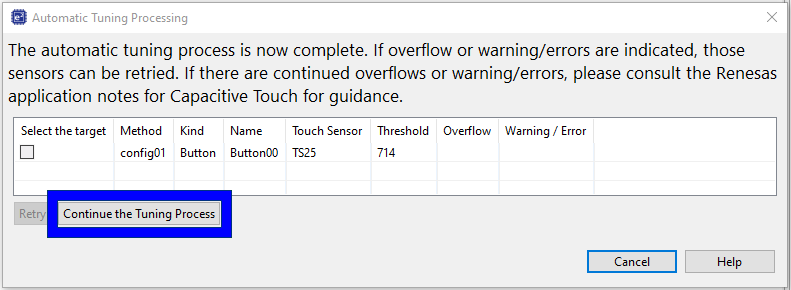
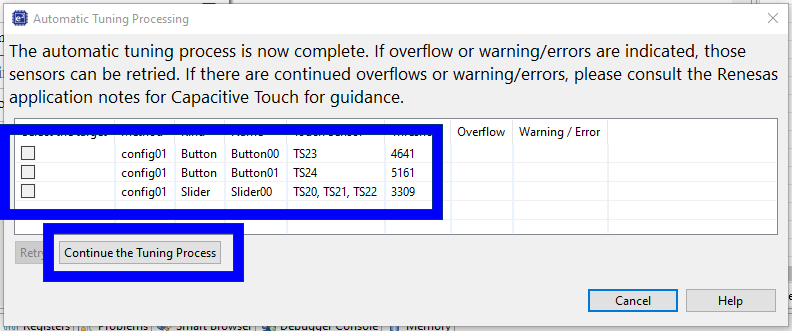
First draft of lab

Changed region(s): [[0.0, 0.0, 1.0, 0.869], [0.0, 0.8069, 1.0, 1.0]]

diff --git a/docs/4-QE-Tuning.html b/docs/4-QE-Tuning.html
@@ -60,96 +60,130 @@
 			<ol>
 				<li>Select (click once) the <b>Button</b> object and place (click once) somewhere in the configuration
 					area</li>
+				<li>place (click once) somewhere else in the configuration area to make a second button</li>
 				<li>Press <b>[Esc]</b> to stop placing buttons</li>
-				<li>Double click the button to configure it</li>
-				<li>Use the drop down to set the TS electrode pin to TS25</li>
-				<li>Click <b>OK</b></li>
+				<li>Select (click once) the <b>Slider</b> object and place (click once) somewhere in the configuration
+					area</li>
+				<li>Press <b>[Esc]</b> to stop placing sliders</li>
+				<li>Double-click each element to configure them and do the follwowing:
+					<ul>
+						<li><b>Button00</b>: <i>TS23</i></li>
+						<li>Click <b>OK</b></li>
+						<li><b>Button01</b>: <i>TS24</i></li>
+						<li>Click <b>OK</b></li>
+						<li><b>Slider00</b>: <i>TS20, TS21, TS22</i></li>
+						<li>Click <b>OK</b></li>
+					</ul>
+				</li>
 				<li>Click <b>Create</b> to finish creating the configuration</li>
 			</ol>
 			<img class="modal-thumbnails" src="img/img_lab/qeprepareconfig.gif" alt="">
 		</details>
 
 		<details>
-			<summary>4.4 Hardware</summary>
-			<p>Before debugging/tuning the project, please ensure headers are fitted to the header <b>H1</b> in
-				positions 1-2
-				(VBATT-VDD) &amp; 4-5 (VDD_RL78 - VDD).<br>
-				Finally connect the E2-Lite - the user does not need to connect batteries for this lab as we will supply
-				the board via the debugger.
-
-				G22:<br>
-				J15 open<br>
-				J16 shorted<br>
-				J17 2-3<br>
-				If populated:<br>
-				J12, J13, J14 2-3<br>
-
-			</p>
-			<img class="modal-thumbnails" src="img/img_lab/headers.png" alt="">
-			<img class="modal-thumbnails" src="img/img_lab/e2lite.png" alt="">
+			<summary>4.4 Output Files</summary>
+			<p>In the <b>Start Tuning (Serial)</b> within <b>2.Tuning Touch Sensors</b> click <b>Output Files</b>.<br>
+				This generate the default application for tuning the application.</p>
+			<img class="modal-thumbnails" src="img/img_lab/outputfiles0.gif" alt="">
 		</details>
 
 		<details>
-			<summary>4.5 Source Modification</summary>
-			<p>A bug has been introduced in the drivers since adding support of new RL78 devices, to workaround this bug
-				we have to do the following.<br>
-				Navigate to:<br>
-				<b>[Project]</b> &rarr; <b>src</b> &rarr; <b>smc_gen</b> &rarr; <b>r_config</b> &rarr;
-				<b>r_ctsu_config.h</b><br>
-				and replace line 65 contents:<br>
-			<pre
-				class="no-copy"><code class="C">#if (defined(BSP_MCU_GROUP_RL78G22) || defined(BSP_MCU_GROUP_RL78G23))</code></pre>
-			with:
-			<pre><code class="C">#if 1</code></pre>
-			i.e., going from:
+			<summary>4.5 UART Callbacks</summary>
+			<p>To enable the UART within the application we must install the touch applications callbacks.<br>
+				Please copy the following code into <b>src</b> &rarr; <b>smc_gen</b> &rarr; <b>Config_UART1</b> &rarr; <b>Config_UART1_user.c</b>:
 			</p>
-			<img class="modal-thumbnails" src="img/img_lab/sourcemodbefore.png" alt="">
-			<p>To:</p>
-			<img class="modal-thumbnails" src="img/img_lab/sourcemodafter.png" alt="">
-			<p>And save with <b>[Ctrl] + S</b></p>
+			<p>First extern a declaration to the following function for access to the file.</p>
+			<pre><code class="C">extern void touch_uart_callback(uint16_t event);</code></pre>
+			<p>Then copy this code into the send end callback:</p>
+			<pre><code class="C">touch_uart_callback(0);</code></pre>
+			<p>Finally copy this code into the receive end callback:</p>
+			<pre><code class="C">touch_uart_callback(1);</code></pre>
+			<img class="modal-thumbnails" src="img/img_lab/touchuartcallback.png" alt="">
 		</details>
 
 		<details>
-			<summary>4.6 Debug Configuration Modification</summary>
-			<p>A bug has been introduced in the drivers since adding support of new RL78 devices, to workaround this bug
-				we have to do the following.<br>
+			<summary>4.6 Call to sample project</summary>
+			<p>To run the tuning program we must make a call to it, navigate to your main function.</p>
+			<p>First extern a declaration to the following function for access to the file.</p>
+			<pre><code class="C">extern void qe_touch_main(void);</code></pre>
+			<p>Then copy this code into the main function after the EI statement.</p>
+			<pre><code class="C">qe_touch_main();</code></pre>
+			<img class="modal-thumbnails" src="img/img_lab/qesample.png" alt="">
+		</details>
+
+		<details>
+			<summary>4.7 Hardware</summary>
+			<p>Before debugging/tuning the project, please ensure the following hardware changes are made.<br>
+				Please note that this is where we must connect the FTDI cable and USB micro cable to the board.
+			</p>
+			<ul>
+				<li><b>J15</b>: <i>Open</i></li>
+				<li><b>J16</b>: <i>Shorted</i></li>
+				<li><b>J17</b>: <i>2-3</i></li>
+				<li>Connect USB micro to J9</li>
+				<li>Connect Black (FTDI - GND) to <b>GND</b> on J8</li>
+				<li>Connect Orange (FTDI - TX) to <b>0</b> on J7</li>
+				<li>Connect Yellow (FTDI - RX) to <b>1</b> on J7</li>
+			</ul>
+			<img class="modal-thumbnails" src="img/img_lab/hw.png" alt="">
+			<p>Please make a note of the COM ports on each the USB micro cable (debugger) and FTDI cable (UART) and note which is which.<br>
+			We will use these later in the lab.</p>
+		</details>
+
+		<details>
+			<summary>4.8 Debug Configuration Modification</summary>
+			<p>To enable COM port debugging please do the following.<br>
 				<b>[Right-Click Project]</b> &rarr; <b>Debug As</b> &rarr; <b>Debug Configurations</b><br>
 				Then inside the dialog select the hardware debug configuration of your project and:<br>
-				<b>Debugger tab</b> &rarr; <b>Debug Tool Settings sub-tab</b><br>
-				Set <i>"Allow to access by stopping execution while running"</i> to <i>"Yes"</i>.
-				<br>G22 - Select COM port.
+				<b>Debugger tab</b> &rarr; <b>Connection Settings sub-tab</b><br>
+				Set <i>COM Port</i> to the COM port of your USB micro cable connected to the G22 FPB.<br>
+				Then apply and close.
 			</p>
 			<img class="modal-thumbnails" src="img/img_lab/debugconfigfix.gif" alt="">
 		</details>
 
 		<details>
-			<summary>4.7 Start Tuning (Emulator)</summary>
+			<summary>4.9 Start Tuning (Serial)</summary>
 			<p>Now return to the initial tuning screen and start tuning.<br>
 				The tuning process is central to the QE for Capacitive touch tools - it is during this process the
-				perihperal is
+				peripheral is
 				configured to work according to the physical hardware connected, i.e, the electrodes.<br>
 				As well as setting up the peripheral features such as scan times, frequencies and drive currents - which
 				are all
-				done automatically for us - we will set an initial proximity/touch threshold.<br>
-				In the <b>Start Tuning (Emulator)</b> within <b>2.Tuning Touch Sensors</b> and select <b>Start
-					Tuning</b>.</p>
-			<img class="modal-thumbnails" src="img/img_lab/starttuning.png" alt="">
-			<p>Click yes when the dialog appears asking you to acknowledge the non-ideal powersupply of the E2-Lite.</p>
-			<img class="modal-thumbnails" src="img/img_lab/powersupplyyes.png" alt="">
+				done automatically for us - we will set an initial proximity/touch threshold.<br><br>
+				So to do this first we build the project by <b>[Right-Clicking]</b> the project and clicking <b>Build Project</b>
+			</p>
+			<img class="modal-thumbnails" src="img/img_lab/projectbuild.gif" alt="">
+			
+			<p>Then debug/run the rpoject, to do so please select the project by clicking on it and click the debug icon along the
+				menu bar.
+			</p>
+			<img class="modal-thumbnails" src="img/img_lab/startdebug.gif" alt="">
+			<p>Finally Click the <b>run</b> icon, first it will run to main, click the <b>run</b> icon again and the
+				project will start running.</p>
+			<img class="modal-thumbnails" src="img/img_lab/rundebug.gif" alt="">
+			
+			<p>Then navigate back to <b>Start Tuning (Serial)</b> within <b>2.Tuning Touch Sensors</b> in the cap touch workflow,
+				set the COM port to the COM port connected with the FTDI cable and click <b>Start Tuning</b>.
+			</p>
+			<img class="modal-thumbnails" src="img/img_lab/starttuning.gif" alt="">
+
 			<p>Now follow the on screen insrtuctions, when confronted with the sensitivtity tuning (Step 5/6)
-				move your hand near the sensor (within ~3CM) and notice how the counter value increases,
-				press any key on the keyboard while your hand is within proximity.<br>
+				use your finger and touch the labelled button and notice how the counter value increases,
+				press any key on the keyboard while your hand is using normal touch pressure.<br>
 				Examples below are given for non-touch and touch counts respectively.
 			</p>
 			<img class="modal-thumbnails" src="img/img_lab/normalcount.png" alt=""><br>
 			<img class="modal-thumbnails" src="img/img_lab/highcount.png" alt="">
-			<p>After pressing the key, you will be asked if you would like to continue the tuning process, please do so.
+			<p>Continue following the on screen instuctions for all elements until you are asked if you would like to continue the tuning process, please do so.
 			</p>
 			<img class="modal-thumbnails" src="img/img_lab/continuetuning.png" alt="">
+			<p>Finally terminate the debug session by clicking the <b>Stop</b> button (red square).</p>
+			<img class="modal-thumbnails" src="img/img_lab/terminatedebug.png" alt="">
 		</details>
 
 		<details>
-			<summary>4.8 Output Parameter Files</summary>
+			<summary>4.10 Output Parameter Files</summary>
 			<p>Now the tuning has been performed, we need to extract the data which has been computed into useful
 				.c and .h files for use in our drivers and middleware.<br>
 				To do this, navigate to <b>Output Parameter Files</b> within <b>2.Tuning Touch Sensors</b> and select
@@ -159,7 +193,7 @@
 		</details>
 
 		<details>
-			<summary>4.9 Implement Program</summary>
+			<summary>4.11 Implement Program</summary>
 			<p>Finally to simplify application creation, the QE tools can generate a simple sample applicaiton for
 				us.<br>
 				To do this, navigate to <b>Implement Program</b> within <b>3.Coding</b> and select <b>Show

diff --git a/docs/5-Build-And-Debug.html b/docs/5-Build-And-Debug.html
@@ -32,46 +32,16 @@
 
 		<!-- Start adding "details" sections for lab steps-->
 		<details open>
-			<summary>5.1 Edit the source</summary>
-			<p>First we need to open the main source file, located:<br>
-				<b>[Project]</b> &rarr; <b>src</b> &rarr; <b><i>&lt;project_name&gt;</i>.c</b><br>
-				Extern a declaration to the QE generated sample application and make a call to the application.
-			</p>
-			<pre><code class="C">extern void qe_touch_main(void);</code></pre>
-			<pre><code class="C">qe_touch_main();</code></pre>
-			<p>This is shown below.</p>
-			<img class="modal-thumbnails" src="img/img_lab/mainc.png" alt="">
-			<p>Second lets add some code which illuminates the on-board LED when a proximity event is detected.<br>
-				Copy the code below and copy it into the file we generated earlier located at:<br>
-				<b>[Project]</b> &rarr; <b>qe_gen</b> &rarr; <b>qe_touch_sample.c</b><br>
-				The code should go at line 67 where the TODO: statement exists.
-			</p>
-			<pre><code class="C">CCS0 = (button_status > 0UL) ? 2U : 0U;</code></pre>
-			<p>The code above toggle the current controlled IO registers to sink 5mA producing a magenta LED.<br>
-				Code insertion shown below:</p>
-			<img class="modal-thumbnails" src="img/img_lab/ledcode.png" alt="">
-		</details>
-
-		<details>
-			<summary>5.2 Build the project</summary>
-			<p>To build the project please <b>[Right-Click]</b> the project and click <b>Build Project</b>.</p>
+			<summary>5.1 Re-build the project</summary>
+			<p>Now we have tuned and configured our project we will need to re-build it.<br>
+				To build the project please <b>[Right-Click]</b> the project and click <b>Build Project</b>.</p>
 			<img class="modal-thumbnails" src="img/img_lab/projectbuild.gif" alt="">
 		</details>
 
 		<details>
-			<summary>5.3 Hardware</summary>
-			<p>Before debugging the project, please ensure headers are fitted to the header <b>H1</b> in positions 1-2
-				(VBATT-VDD) &amp; 4-5 (VDD_RL78 - VDD).<br>
-				Finally connect the E2-Lite - the user does not need to connect batteries for this lab as we will supply
-				the board via the debugger.
-			</p>
-			<img class="modal-thumbnails" src="img/img_lab/headers.png" alt="">
-			<img class="modal-thumbnails" src="img/img_lab/e2lite.png" alt="">
-		</details>
-
-		<details>
-			<summary>5.4 Debugging the project</summary>
-			<p>To start a debug session please select the project by clicking on it and click the debug icon along the
+			<summary>5.2 Debugging the project</summary>
+			<p>Now relaunch the debug session to re-load the binary.<br>
+				To start a debug session please select the project by clicking on it and click the debug icon along the
 				menu bar.
 			</p>
 			<img class="modal-thumbnails" src="img/img_lab/startdebug.gif" alt="">
@@ -81,14 +51,7 @@
 		</details>
 
 		<details>
-			<summary>5.5 Trigger the LED <i>[optional]</i></summary>
-			<p>Now as your hand approaches the proximity electrode the LED should light up.<br>
-				When the hand is retracted the LED should then turn off.
-			</p>
-		</details>
-
-		<details>
-			<summary>5.6 Start Monitoring (Emulator)</summary>
+			<summary>5.3 Start Monitoring (Serial)</summary>
 			<p>Now onto the second major function of the QE tools.<br>
 				The monitoring function allows us to configure the middleware in many ways - the following steps will
 				show
@@ -101,21 +64,21 @@
 		</details>
 
 		<details>
-			<summary>5.7 Enable Monitoring</summary>
-			<p>Navigate to <b>Start Monitoring (Emulator)</b> within <b>4.Monitoring</b> and select <b>Show Views</b>
+			<summary>5.4 Enable Monitoring</summary>
+			<p>Then navigate back to <b>Start Tuning (Serial)</b> within <b>4.Monitoring</b> in the cap touch workflow,
+				set the COM port to the COM port connected with the FTDI cable and click <b>Connect</b> then scroll down and click <b>Show Views</b>.
 			</p>
 			<img class="modal-thumbnails" src="img/img_lab/monitoringviews.gif" alt="">
 			<p>Now perform the following (you may need to expand the windows as shown in the .gif):</p>
 			<ol>
+				<li>In the <b>CapTouch Board Monitor (QE)</b> use the dropdown to select <b>Button00</b></li>
 				<li>In the <b>CapTouch Board Monitor (QE)</b> view select <b>Enable Monitoring</b></li>
-				<li>In the <b>CapTouch Status Chart (QE)</b> view select <b>Sync a selection</b></li>
-				<li>In the <b>CapTouch Parameters (QE)</b> view select <b>Sync a selection</b></li>
 			</ol>.
 			<img class="modal-thumbnails" src="img/img_lab/enablemonitoring.gif" alt="">
 		</details>
 
 		<details>
-			<summary>5.8 Change the threshold</summary>
+			<summary>5.5 Change the threshold</summary>
 			<p> Now we are going to change the threshold, the threshold is the value it which indicates a touch.</p>
 			<ul>
 				<li><b>[Threshold + hystersis]</b> is the point at which a "touch" is detected</li>
@@ -135,7 +98,7 @@
 		</details>
 
 		<details>
-			<summary>5.9 Change the positive noise filter cycle counts</summary>
+			<summary>5.6 Change the positive noise filter cycle counts</summary>
 			<p> Now we are going to change the positive noise filter cycle count value. <br>
 				This value represents the <b>number of consecutive touches</b> before propagating a touch event.<br>
 				The negative cycle count is the opposite i.e., the <b>number of consecutive no-touches</b> before propagating a no-touch event.
@@ -157,7 +120,7 @@
 		</details>
 
 		<details>
-			<summary>5.10 Change the drift correction</summary>
+			<summary>5.7 Change the drift correction</summary>
 			<p>To understand the drift correction value one must understand the reference value.
 				The reference value is the baseline value or the resting value with minimal external
 				disturbance - i.e., the svalue when the system is in idle state.<br>
@@ -182,7 +145,7 @@
 		</details>
 
 		<details>
-			<summary>5.11 Change the long touch cancel</summary>
+			<summary>5.8 Change the long touch cancel</summary>
 			<p>The long touch cancel value is how many consecutive touches are detected before cancelling the touch event.
 				On cancelling the touch event the reference value is immediately shifted up to the count value measured when long
 				touch cancel is triggered.<br>
@@ -201,7 +164,7 @@
 		</details>
 
 		<details>
-			<summary>5.12 Output parameters file</summary>
+			<summary>5.9 Output parameters file</summary>
 			<p>Now simply click the <b>Output Parameter Files</b> button in the <b>CapTouch Parameters (QE)</b> view.<br>
 				This saves the current set of parameters to the file <b>[Project]</b> &rarr; <b>qe_gen</b> &rarr; <b>qe_touch_config.c</b>.
 			</p>
@@ -209,7 +172,7 @@
 		</details>
 
 		<details>
-			<summary>5.13 Summary</summary>
+			<summary>5.10 Summary</summary>
 			<p>In this lab you have gone through the process for creating a capacitive touch application from
 				scratch.<br>
 				The principles outlined here abstracted from hardware can be used on any RL78G2x based device.

diff --git a/docs/3-Configuration.html b/docs/3-Configuration.html
@@ -91,13 +91,46 @@
 				The middleware sits on top of the CTSU driver and controls it, abstracting the user away from the
 				hardware.
 				Meaning the user doesn't need to interact with the CTSU driver in the code.<br>
-				No further configuration is required.
+				Once added, please make the following settings:
 			</p>
+			<ul>
+				<li><b>Support QE monitor using UART</b>: <i>Enable</i> - this allows us to monitor the internals of the touch middleware using UART.</li>
+				<li><b>Support QE tuning using UART</b>: <i>Enable</i> - this allows us to tune the internals of the touch middleware and CTSU driver using UART.</li>
+				<li><b>UART channel</b>: <i>UART1</i> - this is the UART channel we will be using on the hardware.</li>
+			</ul>
 			<img class="modal-thumbnails" src="img/img_lab/configuretouch.gif" alt="">
 		</details>
 
 		<details>
-			<summary>3.4 Port</summary>
+			<summary>3.4 UART</summary>
+			<p>Now we will add the UART driver which will be use in the tuning and monitoring of the capactive touch peripheral.<br>
+			The following settings must be made:</p>
+			<ul>
+				<li><b>Operation</b>: <i>Transmission/Reception</i></li>
+				<li><b>Resource</b>: <i>UART1</i></li>
+				<li><b>Click Finish</b></li>
+			</ul>
+			<img class="modal-thumbnails" src="img/img_lab/configureuart0.gif" alt="">
+			<p>Now fix the operation to:</p>
+			<ul>
+				<li>Tranmission tab
+					<ul>
+						<li><b>Clock source</b>: <i>fCLK/2</i></li>
+						<li><b>Transfer rate setting</b>: <i>115200</i></li>
+					</ul>
+				</li>
+				<li>Reception tab
+					<ul>
+						<li><b>Clock source</b>: <i>fCLK/2</i></li>
+						<li><b>Transfer rate setting</b>: <i>115200</i></li>
+					</ul>
+				</li>
+			</ul>
+			<img class="modal-thumbnails" src="img/img_lab/configureuart1.gif" alt="">
+		</details>
+
+		<details>
+			<summary>3.5 Port</summary>
 			<p>The <b>Ports</b> component controls the GPIO ports for things like LED control and display I/O, please do
 				the following:</p>
 			<ol>
@@ -115,7 +148,7 @@
 		</details>
 
 		<details>
-			<summary>3.5 Generate Code</summary>
+			<summary>3.6 Generate Code</summary>
 			<p>Now click Generate Code.</p>
 			<img class="modal-thumbnails" src="img/img_lab/generatecode.gif" alt="">
 			<p>What happens here is the src/smc_gen folder is populated with code reflecting the
